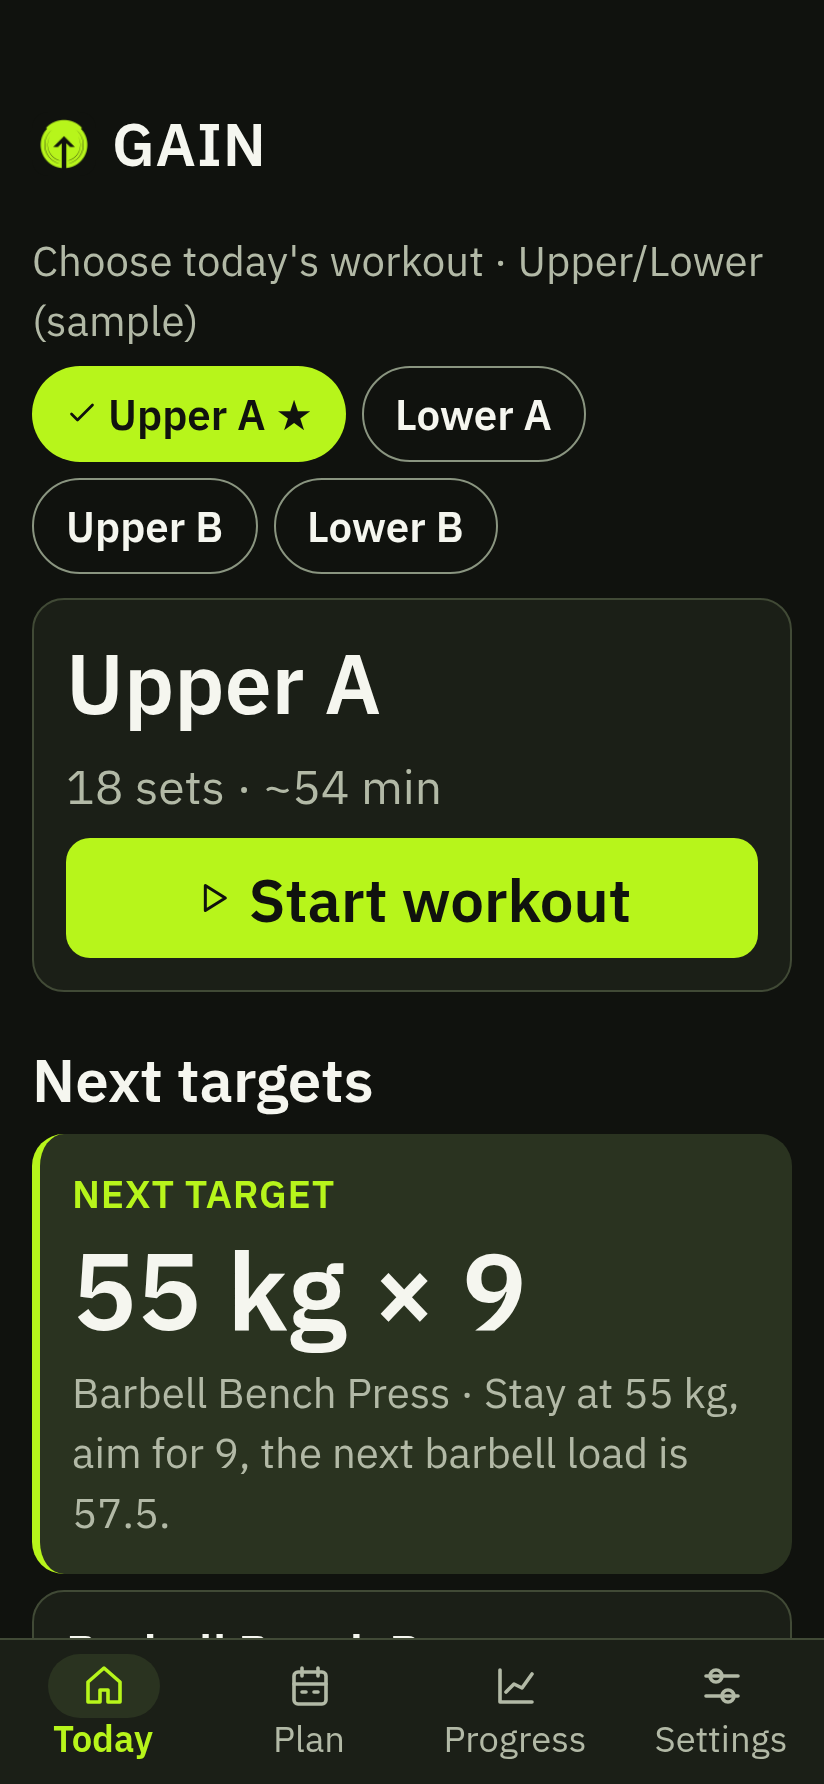
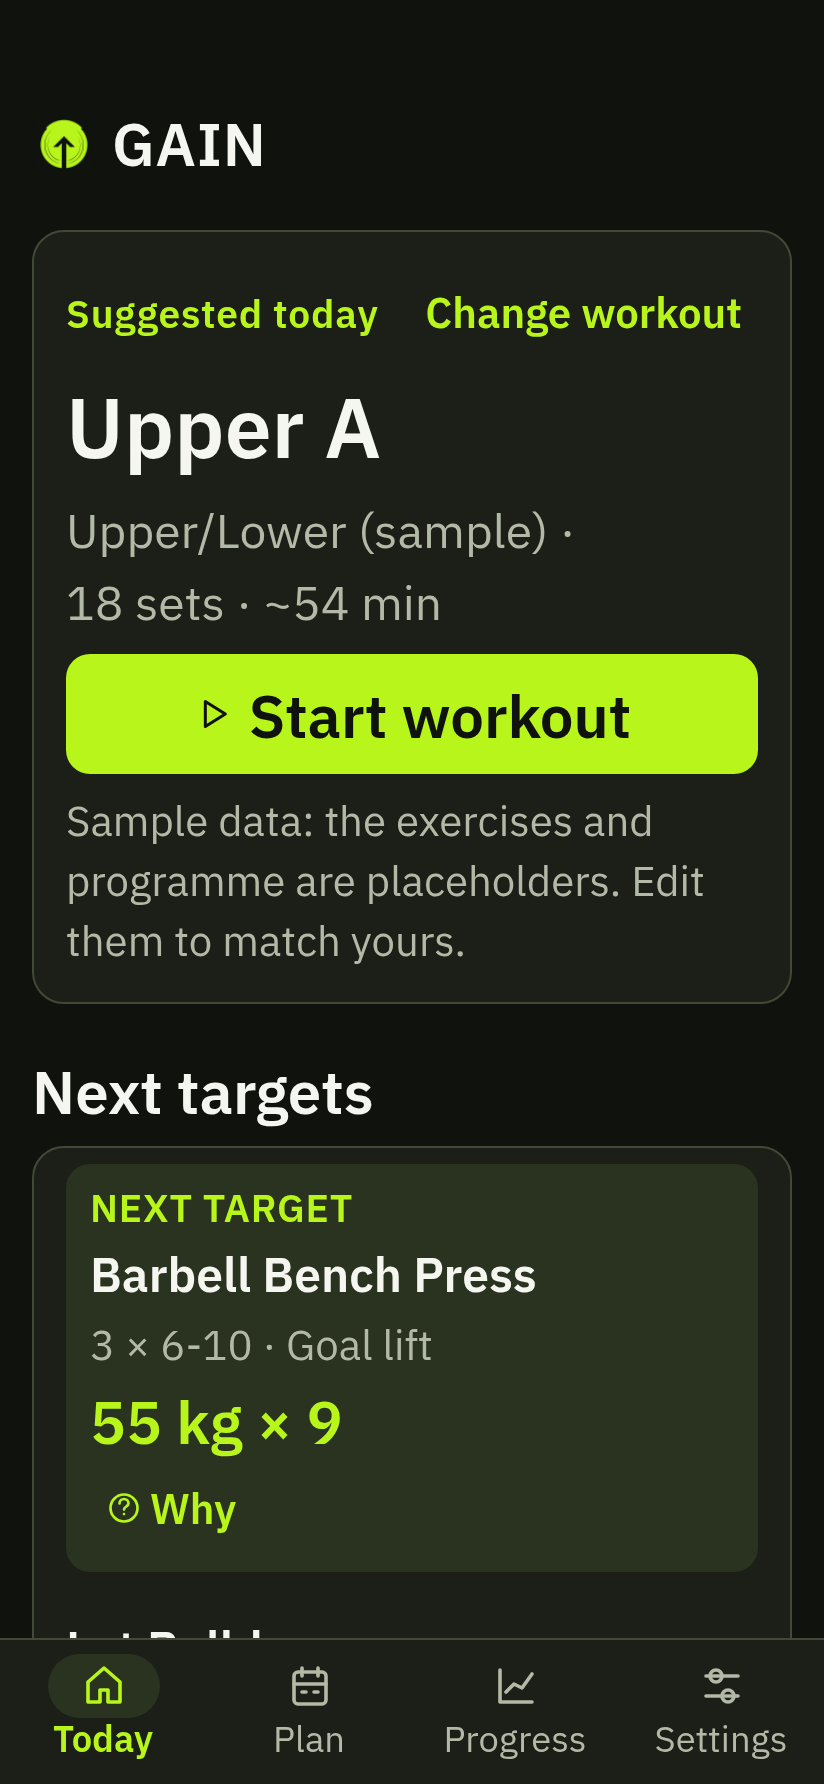
Today: programme name on its own run (RTL-safe); refreshed Today/logger web-render screenshots (EN/AR, light/dark, 1.5x text), picker + status screenshots; README

Changed region(s): [[0.0303, 0.1233, 0.9405, 0.5549], [0.0303, 0.5858, 0.9405, 0.8941], [0.6978, 0.2158, 0.7282, 0.2466]]

diff --git a/apps/mobile/src/screens/TodayScreen.tsx b/apps/mobile/src/screens/TodayScreen.tsx
@@ -153,7 +153,11 @@ export function TodayScreen() {
           {data.days.length > 1 ? <QuietAction label={t("today.change")} accessibilityLabel={t("today.changeLabel", { day: chosen.name })} onPress={() => setChangeOpen(true)} /> : null}
         </View>
         <AppText accessibilityRole="header" style={{ fontSize: ty.title, fontWeight: "600" }}>{chosen.name}</AppText>
-        <AppText style={{ color: p.muted }}>{data.programmeName} · {t("today.meta", { sets: chosen.sets, min: estimateDayMinutes({ exercises: chosen.exercises, sets: chosen.sets }, data.restSeconds) })}</AppText>
+        {/* Separate runs, so a Latin programme name never scrambles the order of an Arabic sentence. */}
+        <View style={{ flexDirection: "row", flexWrap: "wrap", columnGap: space.xs }}>
+          <AppText style={{ color: p.muted }}>{data.programmeName} ·</AppText>
+          <AppText style={{ color: p.muted }}>{t("today.meta", { sets: chosen.sets, min: estimateDayMinutes({ exercises: chosen.exercises, sets: chosen.sets }, data.restSeconds) })}</AppText>
+        </View>
         {action.kind === "resume" ? <InlineStatus kind={action.elsewhere ? "warn" : "info"} text={action.elsewhere ? t("today.finishOpenFirst") : t("today.openWorkout")} /> : null}
         <BigButton hero icon={action.kind === "start" ? "play" : undefined} label={buttonText} disabled={starting} loading={starting} onPress={() => void start()} />
         {data.isSample ? <AppText style={{ fontSize: ty.label, color: p.muted }}>{t("today.sampleNote")}</AppText> : null}

diff --git a/docs/design-screens/README.md b/docs/design-screens/README.md
@@ -10,13 +10,18 @@ File name: `<step>-<screen>-<theme>-<lang>[-fs150].png`
 | Screen | Files |
 | --- | --- |
 | Onboarding (welcome) | `01a-onboarding-welcome-*` |
-| Today (session-first) | `02a-today-*` |
-| Workout logger (resumed workout, "Saved on this phone") | `03a-workout-*` |
+| Today (suggested session, lead target highlighted in the list) | `02a-today-*` |
+| Today: the "Change workout" picker open | `02d-today-change-*` |
+| Workout logger (just resumed: temporary "Resumed" note in the status line) | `03a-workout-*` |
+| Workout logger, a few seconds later (note gone: "Saved on this phone") | `03b-workout-note-gone-*` |
+| Workout logger with a typed-but-unticked set ("1 not saved yet") | `03c-workout-unsaved-*` |
 | Finish summary | `04a-finish-*` |
 | Plan | `05a-plan-*` |
 | Progress (sessions) | `06a-progress-sessions-*` |
 | Settings | `07a-settings-*` |
 
-Variants per screen: `dark-en`, `light-en`, `dark-ar` (RTL), `light-ar` (RTL), `dark-en-fs150` (enlarged text).
-The full set (161 images: more states, light/dark, EN/AR, 1.5x text) is a box artefact, not committed:
+Variants for Today and the logger: `dark-en`, `light-en`, `dark-ar` (RTL), `light-ar` (RTL), plus enlarged text `dark-en-fs150`, `dark-ar-fs150`, `light-en-fs150`.
+The other screens keep the earlier five variants (`dark-en`, `light-en`, `dark-ar`, `light-ar`, `dark-en-fs150`). Picker, "note gone" and "unsaved" are shown in a subset (see the file names).
+Large text ("fs150") is the harness multiplying text sizes by 1.5 and feeding `fontScale` 1.5 to the layout code; it is not Android's real system font scaling.
+The full set (more states, light/dark, EN/AR, 1.5x text; the Today/logger images are regenerated for this revision) is a box artefact, not committed:
 `/workspace/design/screens/web-render/`.
